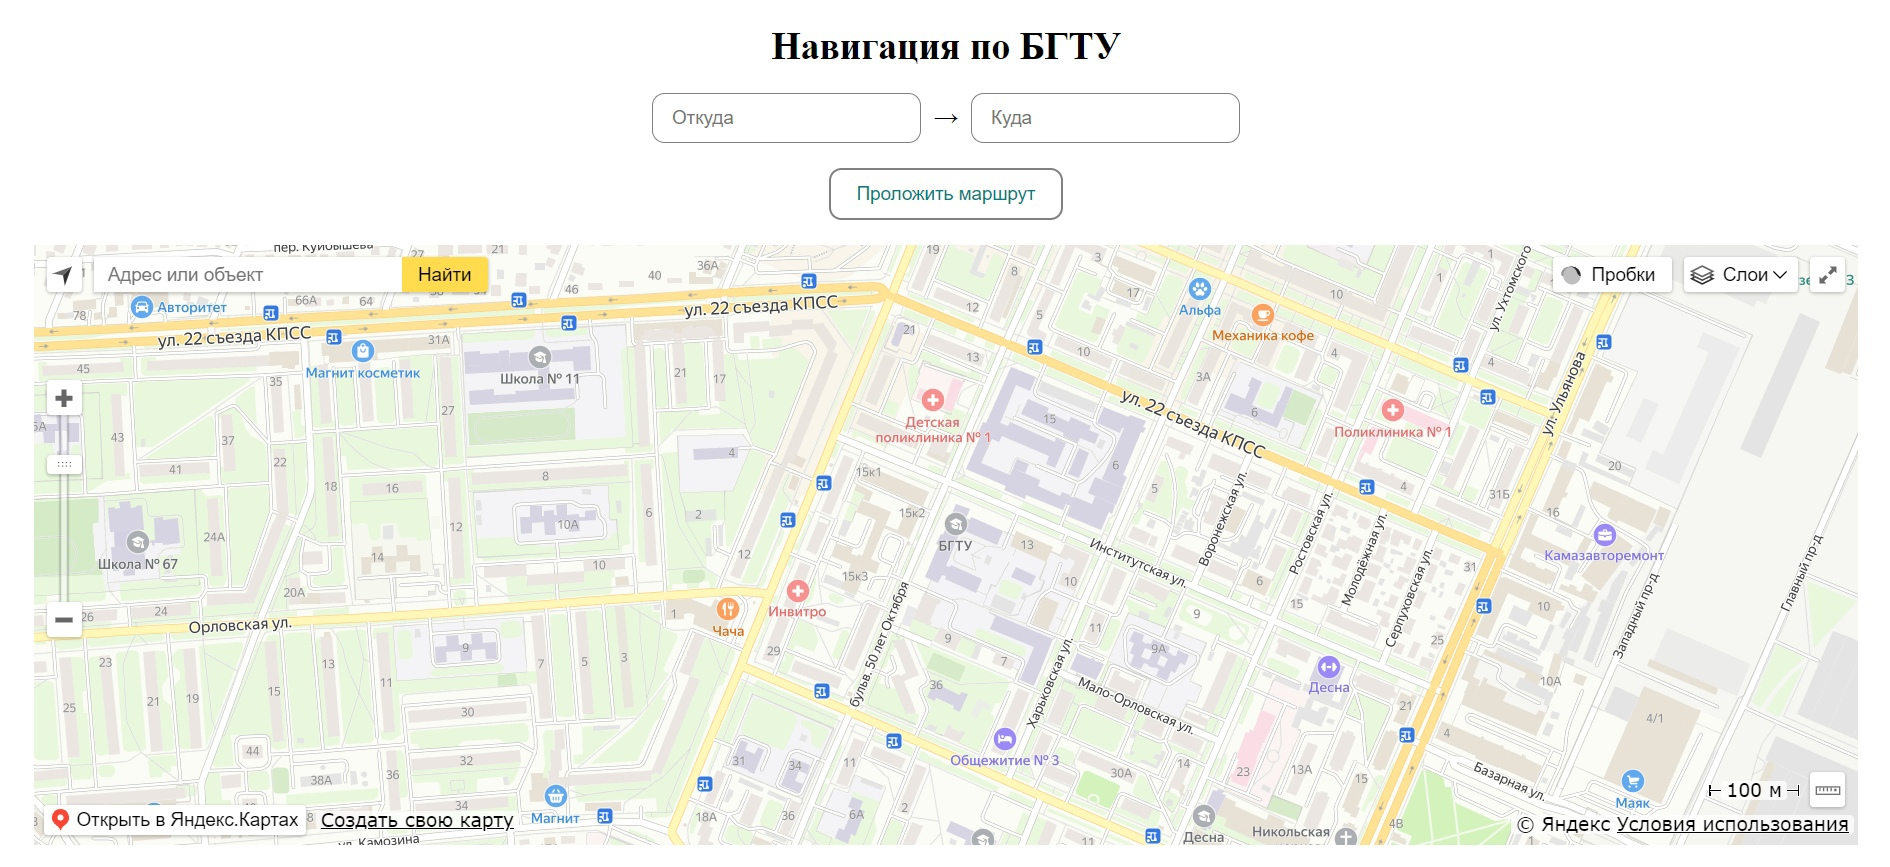
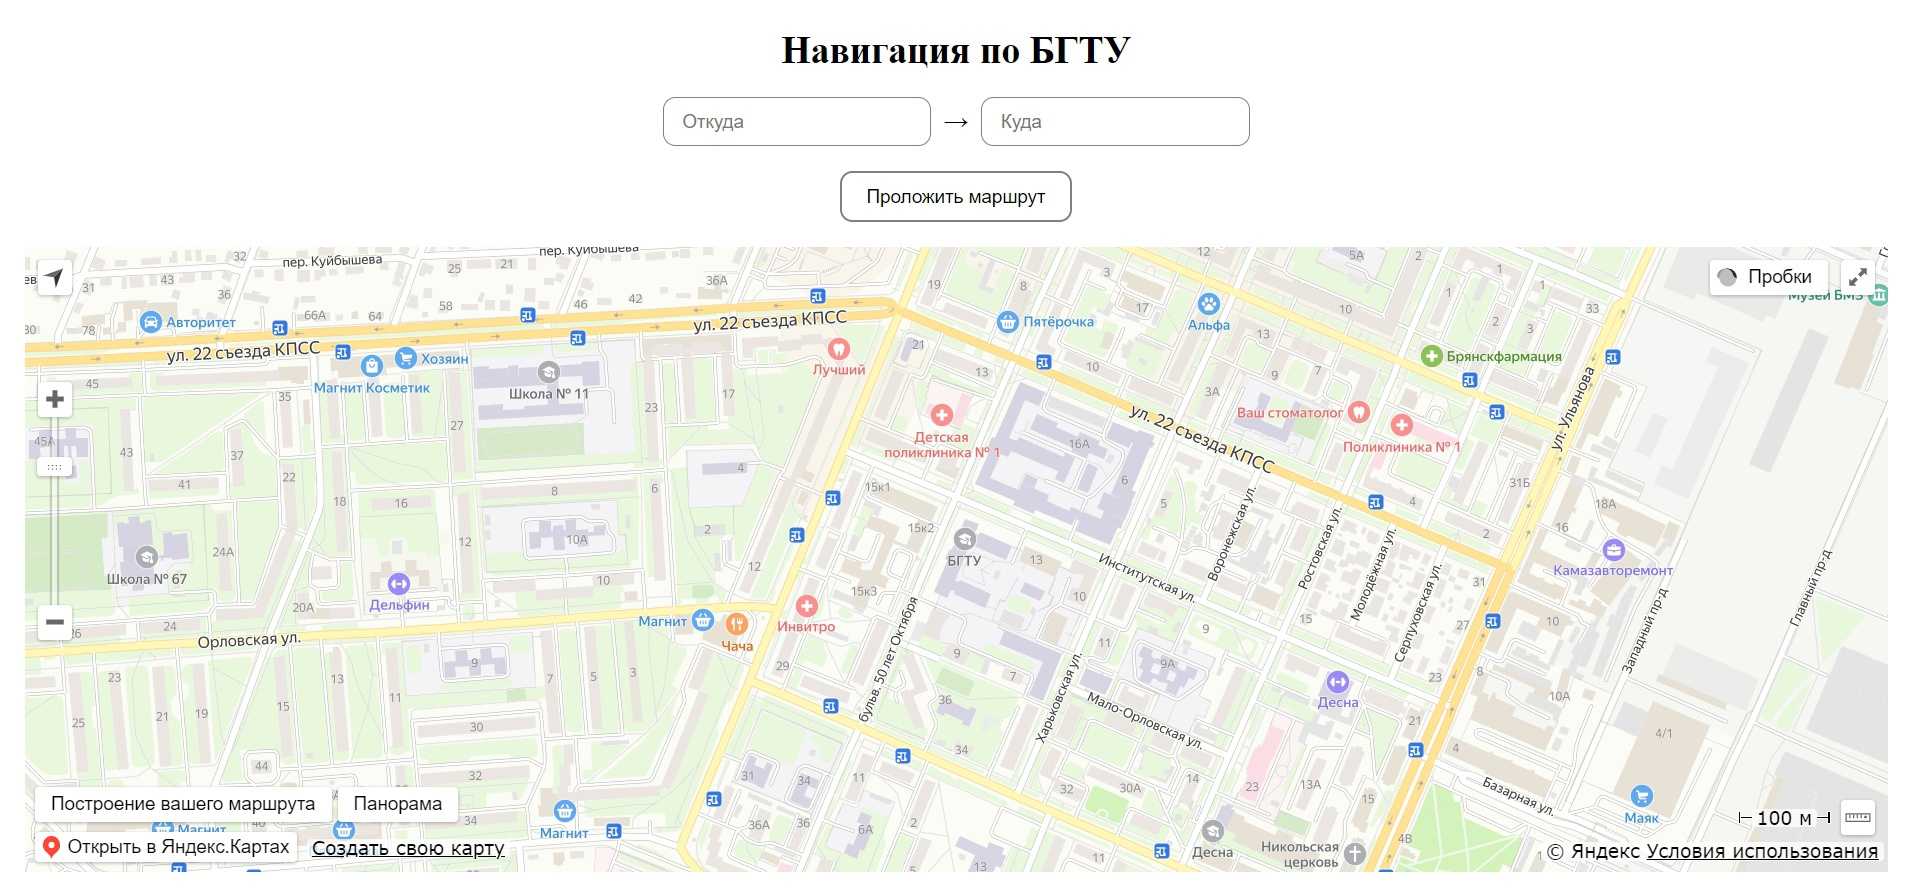
A large amount of work has been done

diff --git a/src/components/MyMap.vue b/src/components/MyMap.vue
@@ -3,16 +3,16 @@ import { ref, defineProps, onMounted, watch } from 'vue'
 import { loadYmap } from 'vue-yandex-maps'
 
 const settings = {
-    apiKey: '20fd5a26-b740-4542-a82a-f78f6d786e00',
+    apiKey: 'ca6cff09-194f-4e2b-89cc-3f6ce771a38e',
     lang: 'ru_RU',
     coordorder: 'latlong', // Порядок задания географических координат
-    debug: true, // Режим отладки
+    debug: false, // Режим отладки
     version: '2.1' // Версия Я.Карт
 }
-
 const coord = ref([53.304437, 34.303867])
 const zoom = ref(16)
 const props = defineProps(['start', 'end'])
+let isModalOpen = ref(false)
 
 onMounted(async () => {
     await loadYmap(settings);
@@ -57,6 +57,7 @@ onMounted(async () => {
                 isRoutePanelShow = true;
             }
         });
+        // Создаем кнопку с накладыванием слоя панорамы
         var panoramaButton = new window.ymaps.control.Button({
             data: { content: "Панорама", },
             options: {
@@ -85,16 +86,13 @@ onMounted(async () => {
         // не строился дважды при изменении каждого поля ("откуда" и "куда")
         let prevEnd = null;
         // Наблюдатель за начальным положением (откуда)
-        watch (() => props.start, () => {
-            map.setCenter(props.start);
-            map.setZoom(18);
-
-            if (props.end === prevEnd)
+        watch (() => props.start.coords, () => {
+            if (props.end.coords === prevEnd)
                 buildRoute();
         });
         // Наблюдатель за конечным положением (куда)
-        watch (() => props.end, () => {
-            prevEnd = props.end;
+        watch (() => props.end.coords, () => {
+            prevEnd = props.end.coords;
             buildRoute();
         });
         // Лаконичный метод построения красивого и очень точного маршрута
@@ -104,26 +102,122 @@ onMounted(async () => {
             routeButton.deselect();
             isRoutePanelShow = false;
 
-            window.ymaps.route([props.start, props.end], {
-                routingMode: 'pedestrian',
-                multiRoute: true,
-            }).then(route => {
-                map.geoObjects.add(route);
-                var points = route.getWayPoints();
-                points.options.set('draggable', false);
+            const multiRoute = new window.ymaps.multiRouter.MultiRoute({
+                referencePoints: [props.start.coords, props.end.coords],
+                params: {
+                    // Режим: пешеход
+                    routingMode: 'pedestrian',
+                }
+            }, {
+                wayPointStartVisible: false,
+                pinVisible: false,
+                // Автоматически устанавливать границы карты так, чтобы маршрут был виден целиком.
+                boundsAutoApply: true,
+                // Цвет маршрутной полосы
+                routeActiveStrokeColor: "#ff0000",
+                wayPointFinishIconContentLayout: window.ymaps.templateLayoutFactory.createClass('Войти'),
             });
+            // Остановка выполнения всех событий при клике на маркеры
+            multiRoute.getWayPoints().events.add('click', function (e) {
+                e.stopImmediatePropagation();
+                isModalOpen.value = true;
+            }, null, 1);
+            map.geoObjects.add(multiRoute);
         }
     });
 })
+
+const closeModal = () => {
+    isModalOpen.value = false;
+}
+
+let isPanoramaOpen = ref(false)
+
+const openClosePanorama = () => {
+    isModalOpen.value = !isModalOpen.value;
+    isPanoramaOpen.value = !isPanoramaOpen.value;
+}
 </script>
 
 <template>
     <div id="map"></div>
+    <div v-if="isModalOpen" class="modal" @click.self="closeModal">
+        <div class="modal-content">
+            <span class="panorama" @click="openClosePanorama">Режим панорамы</span>
+            <span class="close" @click="closeModal">&times;</span>
+            <img :src="require('@/img/' + 'screen' + '.jpg')" alt="План этажа не найден">
+        </div>
+    </div>
+    <div v-if="isPanoramaOpen" class="modal" @click.self="openClosePanorama">
+        <div class="modal-content">
+            <span class="back" @click="openClosePanorama">&larr;</span>
+            <img :src="require('@/img/logo.png')" alt="План этажа не найден">
+        </div>
+    </div>
 </template>
 
 <style scoped>
-    #map {
-        width: 98%;
-        height: 500px;
-    }
+#map {
+    width: 98%;
+    height: 500px;
+}
+.modal {
+    display: flex;
+    align-items: center;
+    justify-content: center;
+    position: fixed;
+    z-index: 1;
+    left: 0;
+    top: 0;
+    width: 100%;
+    height: 100%;
+    overflow: auto;
+    background-color: rgba(0, 0, 0, 0.5);
+}
+
+.modal-content {
+    position: relative;
+    margin: auto 3%;
+    background-color: #fff;
+    box-shadow: 0 4px 12px rgba(0, 0, 0, 0.2), 0 16px 20px rgba(0, 0, 0, 0.2);
+    border-radius: 30px;
+}
+img {
+    width: 100%;
+    border-radius: 30px;
+}
+.close {
+    position: absolute;
+    padding: 0 10px;
+    right: 10px;
+    top: 10px;
+    color: gray;
+    font-size: 35px;
+    font-weight: bold;
+    border-radius: 50%;
+}
+.panorama {
+    position: absolute;
+    padding: 10px 15px;
+    left: 10px;
+    top: 10px;
+    color: gray;
+    font-size: 20px;
+    border-radius: 20px;
+}
+.back {
+    position: absolute;
+    padding: 0 10px 5px;
+    right: 10px;
+    top: 10px;
+    color: gray;
+    font-size: 35px;
+    font-weight: bold;
+    border-radius: 20px;
+}
+.close:hover, .close:focus, .panorama:hover, .panorama:focus, .back:hover, .back:focus {
+    color: black;
+    cursor: pointer;
+    background-color: gainsboro;
+}
 </style>

diff --git a/src/components/MyForm.vue b/src/components/MyForm.vue
@@ -1,10 +1,10 @@
 <script setup>
 import { ref } from 'vue'
-import { items } from './Array.js'
+import { items } from './Array.json'
 
-const from = ref('')
-const to = ref('')
-const errorText = ref('')
+let from = ref('')
+let to = ref('')
+let errorText = ref('')
 
 const swap = () => {
     [from.value, to.value] = [to.value, from.value];
@@ -21,13 +21,18 @@ const validate = (val) => {
 }
 
 const find = (target) => {
-    let fromUper = from.value.toUpperCase();
-    let toUpper = to.value.toUpperCase();
+    const fromUper = from.value.toUpperCase();
+    const toUpper = to.value.toUpperCase();
 
     for (let corpus of items)
-        for (let element of corpus.audiences)
-            if (element.name === target.toUpperCase() && fromUper !== toUpper)
-                return corpus.coords;
+        for (let element of corpus.floor)
+            for (let audit of element.audiences)
+                if (audit.name === target.toUpperCase() && fromUper !== toUpper)
+                    return {
+                        coords: corpus.coords,
+                        floor: element.num,
+                        audience: audit.name,
+                    };
 
     if (fromUper && toUpper) {
         if (fromUper === toUpper)
@@ -37,6 +42,7 @@ const find = (target) => {
     }
     else
         errorText.value = "Заполните все обязательные поля!";
+
     return null;
 }
 </script>
@@ -51,11 +57,15 @@ const find = (target) => {
                 v-model="to" @input="validate(to)" required/>
             <datalist id="arrayOfAudiences">
                 <optgroup v-for="ms in items" :key="ms.id">
-                    <option v-for="m in ms.audiences" :key="m.name">{{ m.name }}</option>
+                    <template v-for="m in ms.floor" :key="m.num">
+                        <option v-for="audience in m.audiences" :key="audience.name">
+                            {{ audience.name }}
+                        </option>
+                    </template>
                 </optgroup>
             </datalist>
         </div>
-        <span v-if="errorText !== ''" style="color: red; margin-top: 20px;">{{ errorText }}</span>
+        <span v-if="errorText" style="color: red; margin-top: 20px; text-align: center;">{{ errorText }}</span>
         <button @click="$emit('propsEvent', find(from), find(to))">Проложить маршрут</button>
     </form>
 </template>

diff --git a/src/App.vue b/src/App.vue
@@ -3,13 +3,13 @@ import { ref } from 'vue'
 import MyForm from '@/components/MyForm.vue'
 import MyMap from '@/components/MyMap.vue'
 
-const from = ref('')
-const to = ref('')
+let from = ref('')
+let to = ref('')
 
 const propsItems = (f, t) => {
     if (f && t) {
-        from.value = f
-        to.value = t
+        from.value = f;
+        to.value = t;
     }
 }
 </script>
@@ -18,7 +18,7 @@ const propsItems = (f, t) => {
     <div class="all">
         <h1>Навигация по БГТУ</h1>
         <MyForm @propsEvent="propsItems" />
-        <MyMap :start="from" :end="to"/>
+        <MyMap :start="from" :end="to" />
     </div>
 </template>
 

diff --git a/public/index.html b/public/index.html
@@ -2,9 +2,10 @@
 <html lang="ru">
     <head>
         <meta charset="utf-8">
-        <meta name="viewport" content="width=device-width,initial-scale=1.0">
+        <meta name="viewport" content="width=device-width, initial-scale=1.0">
         <link rel="shortcut icon" href="icon.ico">
         <title>Помогаем Даше-путешественнице найти дорогу</title>
+        <!--<script src="https://api-maps.yandex.ru/2.1/?lang=ru_RU&amp;apikey=ca6cff09-194f-4e2b-89cc-3f6ce771a38e" type="text/javascript"></script>-->
     </head>
     <body>
         <div id="app"></div>
